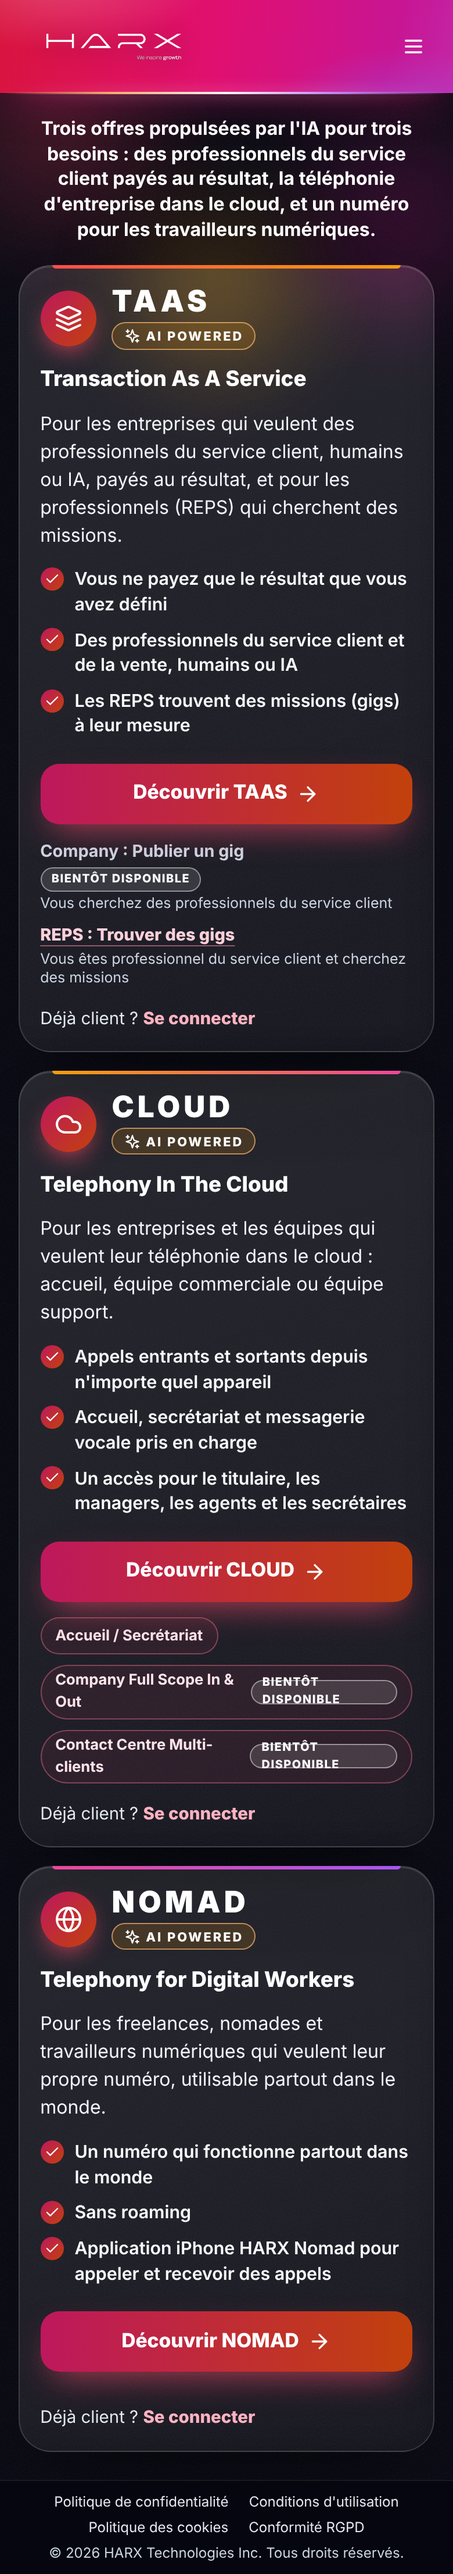
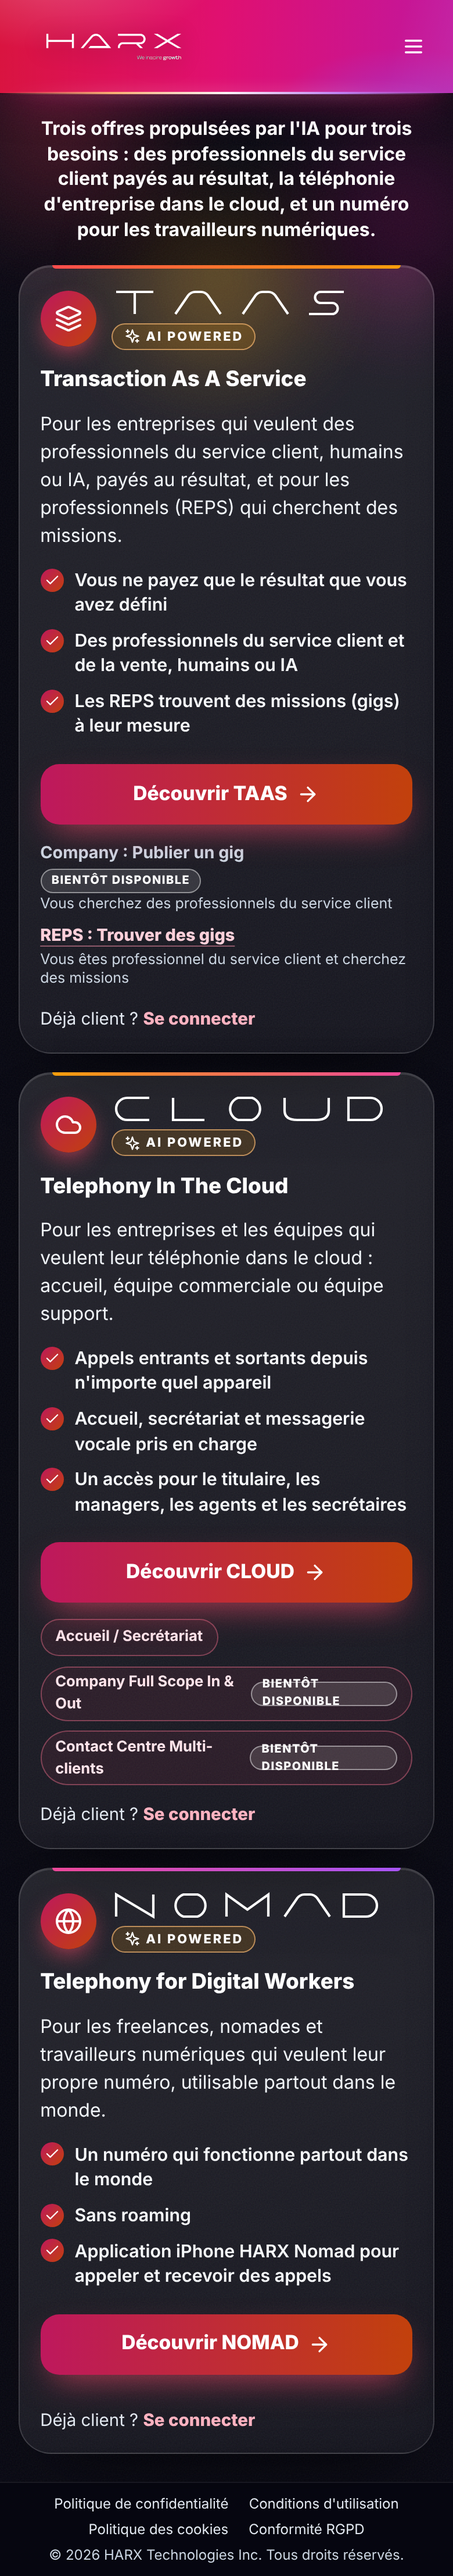
Accueil : sigles TAAS, CLOUD, NOMAD en wordmarks SVG en trait (typographie HARX Nomad), texte lisible masqué pour lecteurs d'écran
Claude-Session: https://claude.ai/code/session_01QDHeYpx2HUqCehhUxqRqw2

diff --git a/src/components/Hub/OfferWordmark.test.ts b/src/components/Hub/OfferWordmark.test.ts
@@ -1,0 +1,37 @@
+import { describe, expect, it } from 'vitest';
+import React from 'react';
+import { renderToStaticMarkup } from 'react-dom/server';
+import { WORDMARKS, WORDMARK_STROKE_WIDTH } from '../../config/offerWordmarks';
+import { OfferWordmark } from './OfferWordmark';
+
+const render = (id: 'taas' | 'cloud' | 'nomad') => renderToStaticMarkup(React.createElement(OfferWordmark, { offer: id, label: id.toUpperCase() }));
+
+describe('wordmarks des offres', () => {
+  it('trois dessins distincts, même trait de 4,2 unités', () => {
+    expect(Object.keys(WORDMARKS).sort()).toEqual(['cloud', 'nomad', 'taas']);
+    const sigs = Object.values(WORDMARKS).map((w) => w.viewBox + w.paths.map((p) => p.d + (p.transform ?? '')).join('|'));
+    expect(new Set(sigs).size).toBe(3);
+    expect(WORDMARK_STROKE_WIDTH).toBe(4.2);
+    expect(WORDMARKS.nomad.viewBox).toBe('-6 -6 482 52');
+    expect(WORDMARKS.taas.viewBox).toBe('-6 -6 420 52');
+    expect(WORDMARKS.cloud.viewBox).toBe('-6 -6 480 52');
+    expect(WORDMARKS.nomad.paths).toHaveLength(5);
+    expect(WORDMARKS.taas.paths).toHaveLength(4);
+    expect(WORDMARKS.cloud.paths).toHaveLength(5);
+  });
+
+  for (const id of ['taas', 'cloud', 'nomad'] as const) {
+    it(`${id} : texte masqué lisible, SVG aria-hidden, dir ltr, trait en currentColor`, () => {
+      const html = render(id);
+      expect(html).toContain(`<span class="sr-only">${id.toUpperCase()}</span>`);
+      expect(html).toMatch(/<svg[^>]*aria-hidden="true"/);
+      expect(html).toMatch(/<svg[^>]*dir="ltr"/);
+      expect(html).toContain('stroke="currentColor"');
+      expect(html).toContain('stroke-width="4.2"');
+      expect(html).toContain('fill="none"');
+      expect(html).toContain('stroke-linejoin="miter"');
+      expect(html).toContain('stroke-linecap="butt"');
+      expect(html).not.toMatch(/animate|<style/);
+    });
+  }
+});

diff --git a/src/config/offerWordmarks.ts b/src/config/offerWordmarks.ts
@@ -1,0 +1,51 @@
+/**
+ * Wordmarks en trait des offres (TAAS, CLOUD, NOMAD) : même typographie que le mot NOMAD de l'application HARX Nomad
+ * (lettres larges et basses, trait fin). Hauteur de lettres 40 unités, trait de 4,2 unités, identique pour les trois.
+ * Dessins fournis par le CTO ; ne pas retoucher sans accord.
+ */
+export const WORDMARK_STROKE_WIDTH = 4.2;
+
+export interface WordmarkPath {
+  d: string;
+  transform?: string;
+}
+export interface Wordmark {
+  viewBox: string;
+  paths: WordmarkPath[];
+}
+
+const A = 'M2 40L24 8Q29 2 36 2H46Q53 2 58 8L80 40';
+const O = 'M22 2H46A20 20 0 0 1 46 40H22A20 20 0 0 1 22 2Z';
+const D = 'M2 2V40H40A19 19 0 0 0 40 2Z';
+
+export const WORDMARKS: Record<'taas' | 'cloud' | 'nomad', Wordmark> = {
+  nomad: {
+    viewBox: '-6 -6 482 52',
+    paths: [
+      { d: 'M2 40V2L66 40V2' },
+      { transform: 'translate(96 0)', d: O },
+      { transform: 'translate(190 0)', d: 'M2 40V2L38 28L74 2V40' },
+      { transform: 'translate(290 0)', d: A },
+      { transform: 'translate(392 0)', d: D },
+    ],
+  },
+  taas: {
+    viewBox: '-6 -6 420 52',
+    paths: [
+      { d: 'M2 2H66M34 2V40' },
+      { transform: 'translate(102 0)', d: A },
+      { transform: 'translate(218 0)', d: A },
+      { transform: 'translate(330 0)', d: 'M64 2H24A9.5 9.5 0 0 0 24 21H44A9.5 9.5 0 0 1 44 40H4' },
+    ],
+  },
+  cloud: {
+    viewBox: '-6 -6 480 52',
+    paths: [
+      { transform: 'translate(-5 0)', d: 'M64 2H26A19 19 0 0 0 26 40H64' },
+      { transform: 'translate(98 0)', d: 'M2 2V40H56' },
+      { transform: 'translate(190 0)', d: O },
+      { transform: 'translate(290 0)', d: 'M2 2V24Q2 40 24 40H56Q78 40 78 24V2' },
+      { transform: 'translate(400 0)', d: D },
+    ],
+  },
+};

diff --git a/src/components/Hub/hub.css b/src/components/Hub/hub.css
@@ -45,7 +45,8 @@
 .hub-card__head { display: flex; align-items: center; gap: .85rem; }
 .hub-badge { display: inline-flex; flex: none; align-items: center; justify-content: center; width: 3rem; height: 3rem; border-radius: 9999px; color: #fff; background: linear-gradient(135deg, #be185d, #c2410c); box-shadow: 0 8px 20px -6px rgba(255, 77, 109, .8); }
 .hub-card__id { display: flex; flex-direction: column; align-items: flex-start; gap: .3rem; min-width: 0; }
-.hub-acronym { margin: 0; font-size: 1.6rem; font-weight: 900; letter-spacing: .12em; line-height: 1; color: #fff; }
+.hub-acronym { margin: 0; line-height: 0; color: #fff; }
+.hub-wordmark { display: block; width: auto; height: 30px; overflow: visible; }
 .hub-ai { margin: 0; display: inline-flex; align-items: center; gap: .3rem; height: 1.45rem; padding: 0 .6rem; border-radius: 9999px; font-size: .68rem; font-weight: 800; letter-spacing: .14em; color: #fff; border: 1px solid rgba(255, 190, 120, .65); background: rgba(245, 158, 11, .16); }
 .hub-card__title { margin: 0; font-size: clamp(1.15rem, .5vw + 1rem, 1.5rem); font-weight: 800; line-height: 1.2; color: #fff; }
 .hub-card__target { margin: 0; font-size: 1rem; line-height: 1.5; color: #f1f5f9; }
@@ -92,8 +93,10 @@
 @media (max-width: 1023px) {
   .hub-aurora__blob { filter: blur(48px); animation: none; opacity: .45; }
 }
+@media (max-width: 767px) {
+  .hub-wordmark { height: 26px; }
+}
 @media (max-width: 380px) {
-  .hub-acronym { font-size: 1.35rem; }
   .hub-card { border-radius: 1.4rem; }
 }
 @media (prefers-reduced-motion: reduce) {

diff --git a/src/components/Hub/HubPage.tsx b/src/components/Hub/HubPage.tsx
@@ -2,6 +2,7 @@ import React from 'react';
 import { ArrowRight, Check, Cloud, Globe, Layers, Sparkles, type LucideIcon } from 'lucide-react';
 import { Link } from 'react-router-dom';
 import { useTranslation } from 'react-i18next';
+import { OfferWordmark } from './OfferWordmark';
 import { Header } from '../LandingPage/Header';
 import type { SignupUserType } from '../ChoicePage';
 import { persistHarxLanguage } from '../../lib/i18n';
@@ -68,11 +69,13 @@ function OfferCard({ offer, lang, onSelectRole }: { offer: OfferConfig; lang: Of
       <header className="hub-card__head">
         <span className="hub-badge"><Icon className="h-6 w-6" aria-hidden="true" /></span>
         <div className="hub-card__id">
-          <p className="hub-acronym" data-testid={`hub-acronym-${offer.id}`}>{offer.acronym}</p>
+          <h2 id={titleId} className="hub-acronym" data-testid={`hub-acronym-${offer.id}`}>
+            <OfferWordmark offer={offer.id as 'taas' | 'cloud' | 'nomad'} label={offer.acronym} />
+          </h2>
           <p className="hub-ai" data-testid={`hub-ai-${offer.id}`}><Sparkles className="h-3.5 w-3.5" aria-hidden="true" />{t('hub.aiPowered')}</p>
         </div>
       </header>
-      <h2 id={titleId} className="hub-card__title"><bdi>{t(offer.titleKey)}</bdi></h2>
+      <p className="hub-card__title"><bdi>{t(offer.titleKey)}</bdi></p>
       <p className="hub-card__target"><bdi>{t(offer.targetKey)}</bdi></p>
       <ul className="hub-benefits" data-testid={`hub-benefits-${offer.id}`}>
         {offer.benefitKeys.map((key) => (

diff --git a/src/components/Hub/OfferWordmark.tsx b/src/components/Hub/OfferWordmark.tsx
@@ -1,0 +1,34 @@
+import React from 'react';
+import { WORDMARKS, WORDMARK_STROKE_WIDTH } from '../../config/offerWordmarks';
+
+interface OfferWordmarkProps {
+  offer: 'taas' | 'cloud' | 'nomad';
+  /** Texte lisible (TAAS / CLOUD / NOMAD) pour lecteurs d'écran et référencement ; le dessin est décoratif. */
+  label: string;
+}
+
+/** Sigle de l'offre en wordmark SVG en trait (currentColor). Jamais miroité en RTL (dir="ltr"), sans animation. */
+export function OfferWordmark({ offer, label }: OfferWordmarkProps) {
+  const { viewBox, paths } = WORDMARKS[offer];
+  return (
+    <>
+      <span className="sr-only">{label}</span>
+      <svg
+        className="hub-wordmark"
+        viewBox={viewBox}
+        dir="ltr"
+        aria-hidden="true"
+        focusable="false"
+        fill="none"
+        stroke="currentColor"
+        strokeWidth={WORDMARK_STROKE_WIDTH}
+        strokeLinejoin="miter"
+        strokeLinecap="butt"
+      >
+        {paths.map((p, i) => (
+          <path key={i} d={p.d} transform={p.transform} />
+        ))}
+      </svg>
+    </>
+  );
+}
